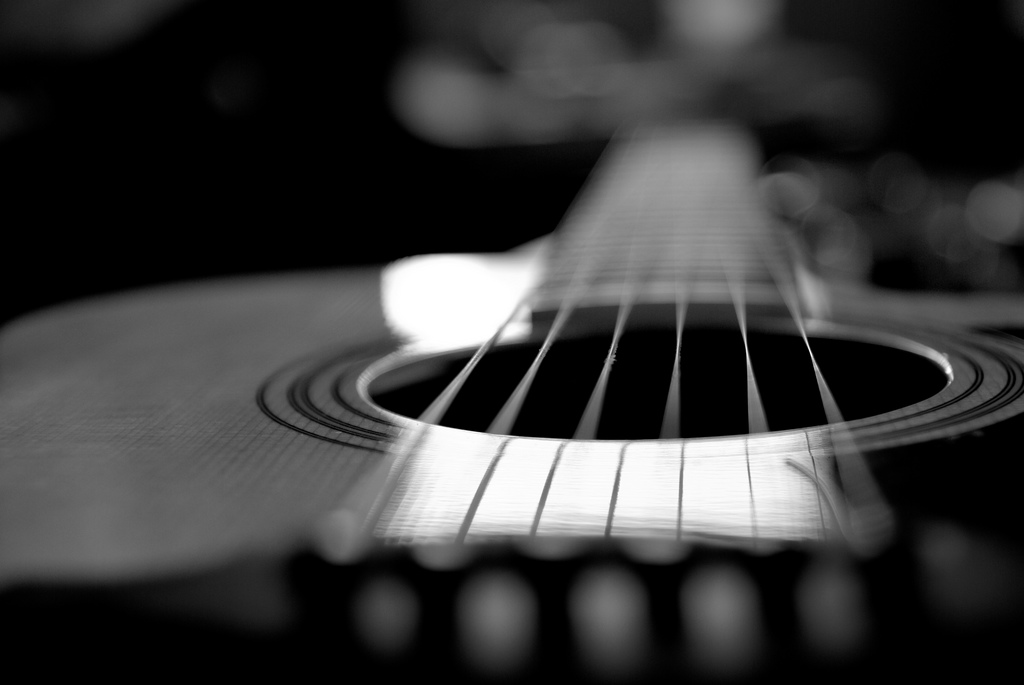
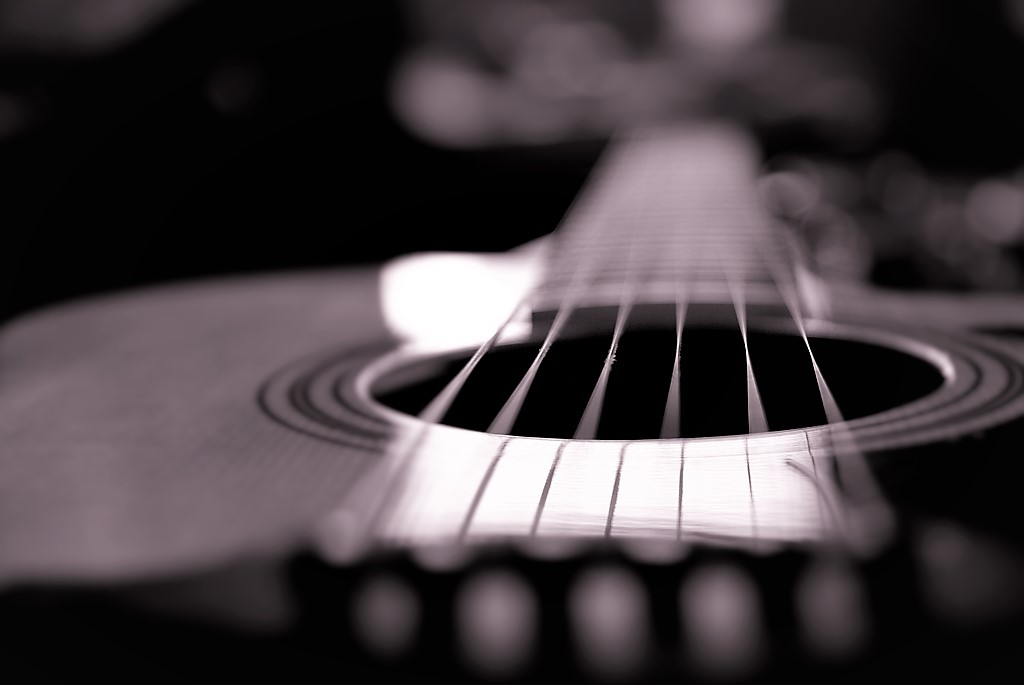
opacity fixed & spotify api works

diff --git a/css/main.css b/css/main.css
@@ -1,21 +1,36 @@
 .wrap {
-	/*background-color: red;*/
-	background-image: url(images/guitar_background2.jpg);
-	color: red;
+	/*background-size: cover*/
+	background-image: url(../images/guitar_opacity.jpg);
+	/*color: red;*/
+  /*min-height: 100vh;*/
+  /*opacity: .65;*/
+  width: 200%; 
+  height: 200%;
+  position: absolute; 
 }
-form {
-	background-color: red;
+
+h1 {
+	color: white;
+  font-size: 2.5em;
+}
+
+body{
+  color: black;
+  font-weight: bold;
+}
+
+.song-name{
+  font-size: 1.5em;
 }
 /*
-#bg {
+#bg {s
   position: fixed; 
   top: -50%; 
   left: -50%; 
-  width: 200%; 
-  height: 200%;
+  
 }
 #bg img {
-  position: absolute; 
+  
   top: 0; 
   left: 0; 
   right: 0; 
@@ -23,6 +38,6 @@ form {
   margin: auto; 
   min-width: 50%;
   min-height: 50%;
-  opacity: 90%;
+  
 }
 */

diff --git a/index.html b/index.html
@@ -18,5 +18,5 @@
 </div>
 </body>
 <script src="https://code.jquery.com/jquery-latest.min.js"></script>
-	<script src="js/app.js"></script>
+<script src="js/app.js"></script>
 </html>
